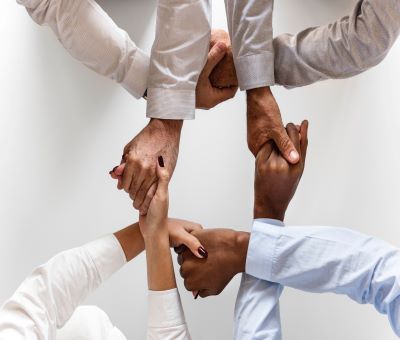
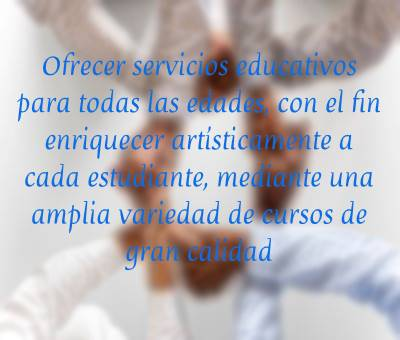
Guitawelcome
Es lo que hay

diff --git a/index.html b/index.html
@@ -82,22 +82,7 @@
 											<h3>We are the best in this field</h3>
 										</div>
 									</li>
-									<li>
-										<div class="banner-bottom-text">
-											<h3>We can dance forever</h3>
-										</div>
-									</li>
-									<li>
-										<div class="banner-bottom-text">
-											<h3>We know how to have fun</h3>
-										</div>
-									</li>
-									<li>
-										<div class="banner-bottom-text">
-											<h3>Press play and go</h3>
-										</div>
-									</li>
-								</ul>
+									</ul>
 							</div>
 							<div class="clearfix"> </div>
 						</section>
@@ -119,9 +104,11 @@
 					<div class="col-md-4 banner_bottom_right_grid">
 						<div class="view view-tenth ab1" style="padding-bottom: 0px; padding-top: 0px; height: 306px;">
 							<div class="mbox_text_box">
-								<span class="fa fa-bullhorn" aria-hidden="true"></span>
-								<h3>Misión</h3>
-								<p class="paragraph">Ofrecer servicios educativos para todas las edades, con el fin enriquecer artísticamente a cada estudiante, mediante una amplia variedad de cursos de gran calidad.</p>
+								<span class="fa fa-bullseye" aria-hidden="true"></span>
+								<br>
+								<br>
+								<h3>Misión GuitaCam</h3>
+								<p class="paragraph"></p>
 							</div>
 							<div class="mask">
 								<img src="images/mission.jpg" class="img-responsive" alt="">
@@ -131,9 +118,11 @@
 					<div class="col-md-4 banner_bottom_right_grid">
 						<div class="view view-tenth ab2" style="padding-bottom: 0px; padding-top: 0px; height: 306.4px;">
 							<div class="mbox_text_box">
-								<span class="fa fa-cubes" aria-hidden="true"></span>
-								<h3>Visión</h3>
-								<p class="paragraph">Ser un espacio educativo, creativo, innovador y líder en el ámbito de la enseñanza de las artes y las letras.</p>
+								<span class="fa fa-binoculars" aria-hidden="true"></span>
+								<br>
+								<br>
+								<h3>Visión GuitaCam</h3>
+								<p class="paragraph"></p>
 							</div>
 							<div class="mask">
 								<img src="images/vision.jpg" class="img-responsive" alt="">
@@ -141,11 +130,13 @@
 						</div>
 					</div>
 					<div class="col-md-4 banner_bottom_right_grid">
-						<div class="view view-tenth ab3" style="padding-bottom: 0px; padding-top: 0px; height: 306px;">
+						<div class="view view-tenth ab1" style="padding-bottom: 0px; padding-top: 0px; height: 306px;">
 							<div class="mbox_text_box">
-								<span class="fa fa-camera-retro" aria-hidden="true"></span>
-								<h3>Valores</h3>
-								<p class="paragraph"> Perseverancia / Respeto / Actitud positiva / Integridad / Tolerancia</p>
+								<span class="fa fa-book" aria-hidden="true"></span>
+								<br>
+								<br>
+								<h3>Valores GuitaCam</h3>
+								<p class="paragraph"></p>
 							</div>
 							<div class="mask">
 								<img src="images/values.jpg" class="img-responsive" alt="">
@@ -732,10 +723,8 @@
 								<div class="row">
 									<div class="col-sm-8 col-sm-offset-2 client-music1-musicbx">
 
-										<p class="paragraph">Lorem ipsum dolor sit amet, consectetur adipiscing elit, sed do eiusmod tempor incididunt ut labore et dolore magna
-											aliqua. Ut enim ad minim veniam, quis nostrud exercitation ullamco laboris nisi ut aliquip ex ea commodo consequat.
-											Duis aute irure dolor in reprehenderit in voluptate velit esse cillum dolore eu fugiat nulla pariatur.</p>
-										<h5>Stella</h5>
+										<p class="paragraph">Un ambiente muy tuanis para aprender cualquier instrumento, gente amable, buenos profesores, muy buena ubicación,buen precio. Un gusto asistir a clases y pasarla bien aprendiendo! :-) </p>
+										<h5>Kamila Roblero</h5>
 									</div>
 								</div>
 							</blockquote>

diff --git a/GuitacamWelcome/index.html b/GuitacamWelcome/index.html
@@ -1,0 +1,22 @@
+<!DOCTYPE html>
+<html lang="en">
+<head>
+    <meta charset="UTF-8">
+    <meta name="viewport" content="initial-scale=1.0">
+    <meta http-equiv="X-UA-Compatible" content="ie=edge">
+    <title>Guitacam</title>
+    <link rel="stylesheet" href="https://stackpath.bootstrapcdn.com/bootstrap/4.3.1/css/bootstrap.min.css" integrity="sha384-ggOyR0iXCbMQv3Xipma34MD+dH/1fQ784/j6cY/iJTQUOhcWr7x9JvoRxT2MZw1T" crossorigin="anonymous">
+    <link rel="stylesheet" href="styles.css">
+</head>
+<body>
+    <div class="container-fluid">
+        <div class="row">
+            <div class="col-md-12"><h1>Muy pronto...</h1></div>
+        </div>
+        
+        <div class="row">
+            <div class="col-md-12"><img src="./images/logo.png"></img></div>
+        </div>
+    </div>
+</body>
+</html>

diff --git a/GuitacamWelcome/styles.css b/GuitacamWelcome/styles.css
@@ -1,0 +1,8 @@
+body {
+    background-color: black;
+}
+
+img {
+    width: auto;
+    height: 250px;
+}
